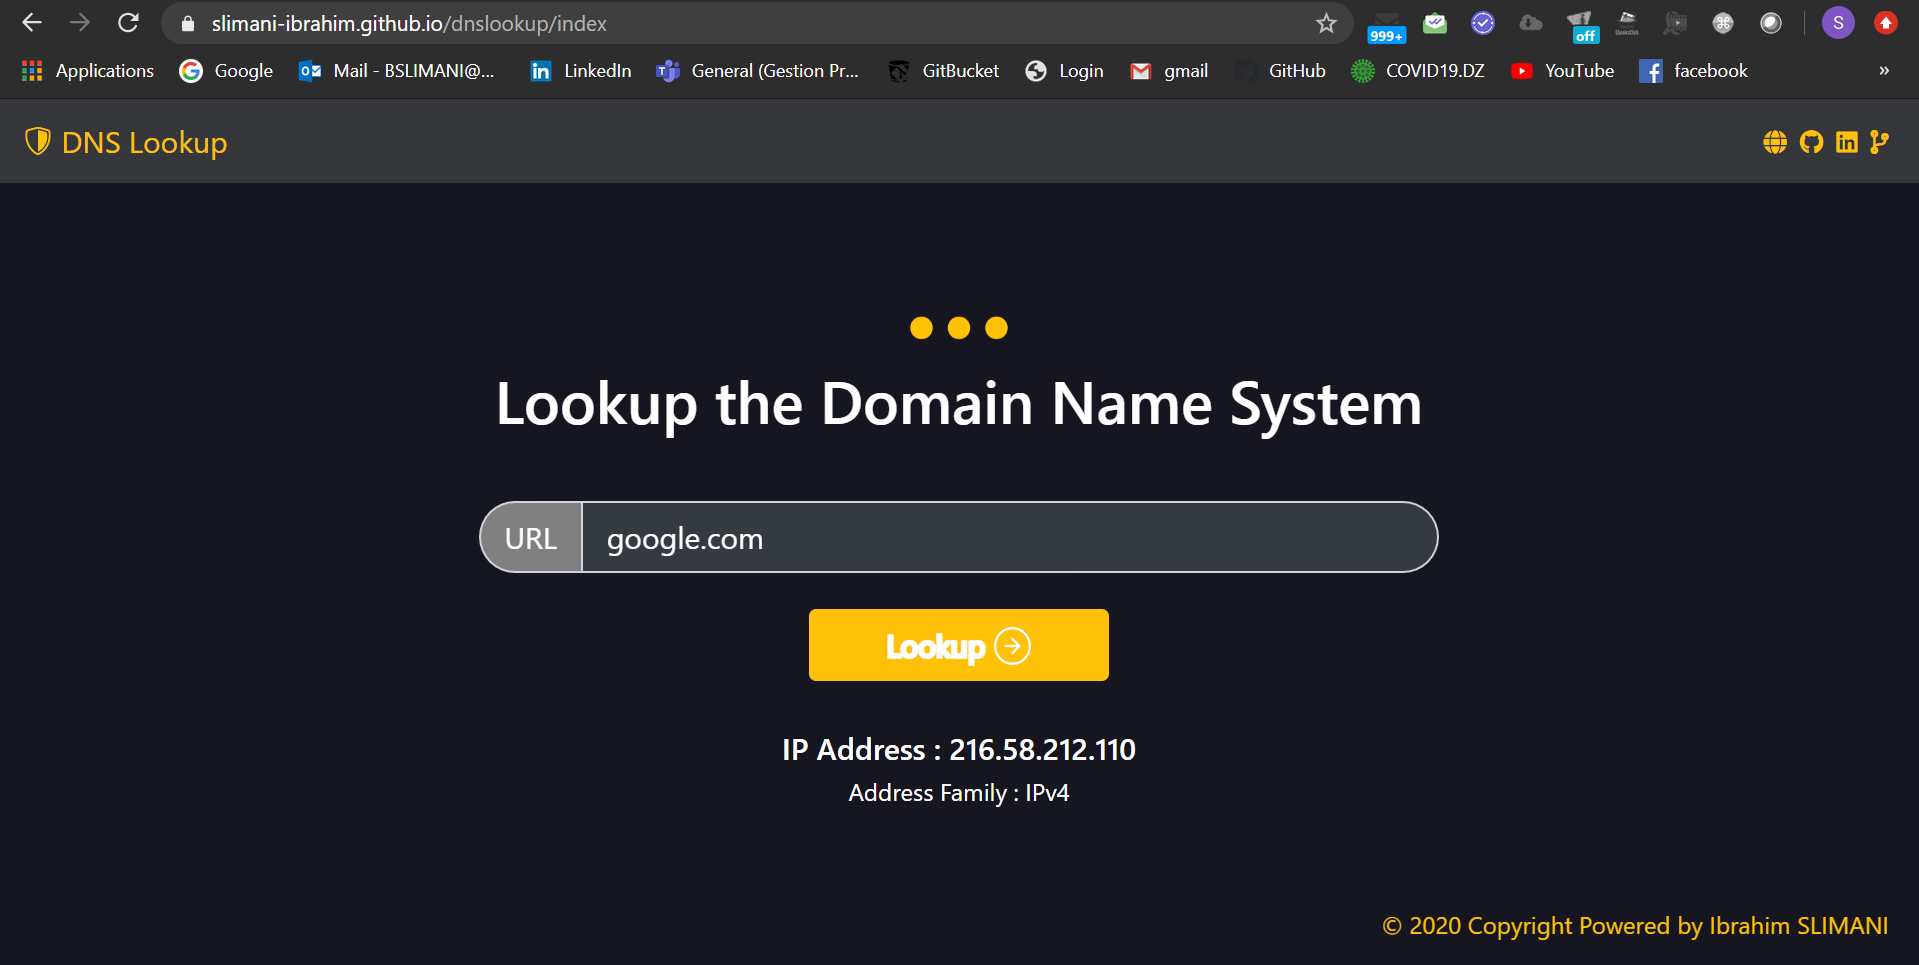
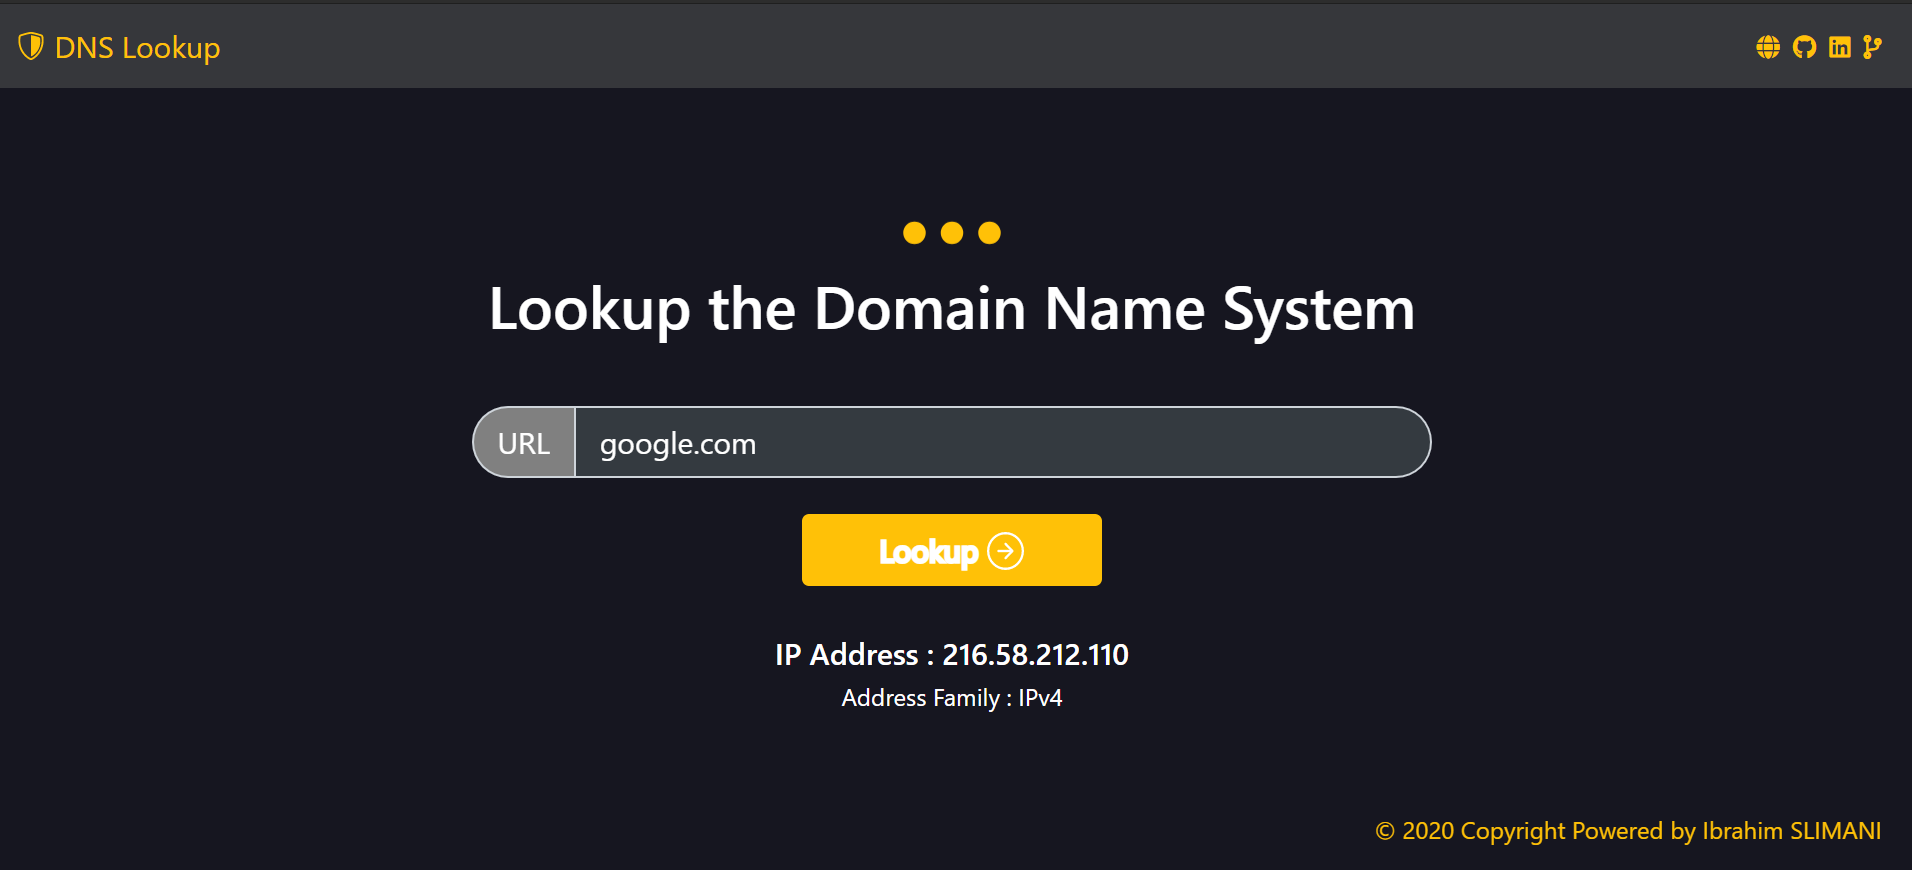
dist build prod

diff --git a/index.html b/index.html
@@ -4,7 +4,7 @@
 <head>
   <meta charset=utf-8>
   <meta name=viewport content="width=device-width,initial-scale=1">
-  <meta property="og:image" content="/dnslookup/static/img/preview.png">
+  <meta property="og:image" content="https://slimani-ibrahim.github.io/dnslookup/static/img/preview.png">
   <title>DNS Lookup</title>
   <script async src="https://www.googletagmanager.com/gtag/js?id=UA-162909055-3"></script>
   <script>window.dataLayer = window.dataLayer || [];
